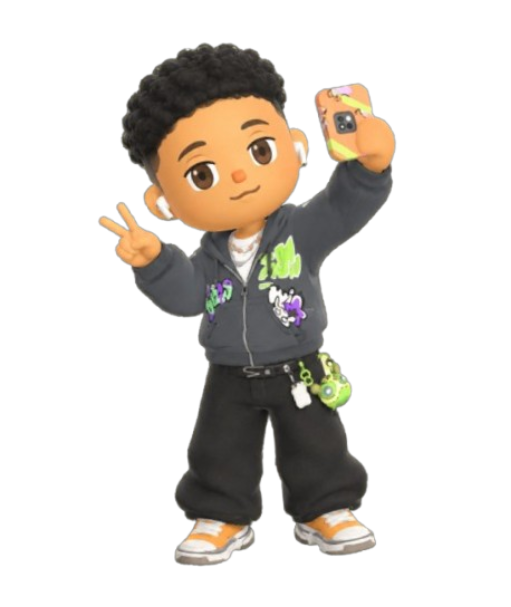
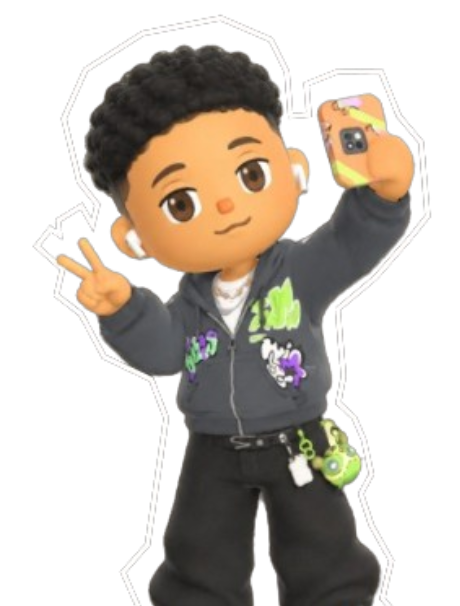
feat: adiciona gradient e position inicial nos bonecos

diff --git a/index.html b/index.html
@@ -45,12 +45,13 @@
             <div class="ps-live-region ps-sr-only" role="status" aria-live="polite"></div>
 
             <ul class="catalog-card-grid" aria-labelledby="personagens-heading-1">
-                <li><character-card name="Mari Marrão" color-from="#d6256e" color-to="#f0507c" img="assets/images/mari-marrao.png" desc="boina branca, cabelo cacheado castanho, jardineira jeans"></character-card></li>
-                <li><character-card name="Erick Santos" color-from="#1f6e8c" color-to="#2596be" desc="moletom cinza com manchas verdes, fazendo sinal de paz"></character-card></li>
-                <li><character-card name="Rahquel Emido" color-from="#a9852c" color-to="#d4b13a" desc="óculos redondos, blusa listrada, cabelo longo escuro"></character-card></li>
-                <li><character-card name="João Souza" color-from="#7a9a2e" color-to="#a3c93f" desc="moletom cinza escrito New York, cabelo cacheado"></character-card></li>
-                <li><character-card name="Vinícius Boas" color-from="#c2581c" color-to="#e8862f" desc="óculos, moletom preto, copo de café na mão"></character-card></li>
-                <li><character-card name="Isepe Nic" color-from="#5b3aa0" color-to="#7d5bc4" desc="óculos, camiseta amarela estampada, cabelo castanho"></character-card></li>
+                <li><character-card name="Mari Marrão" color-from="#DF7A96" color-to="#F6356B" img="assets/images/mari-marrao.png" desc="boina branca, cabelo cacheado castanho, jardineira jeans"></character-card></li>
+                <li><character-card name="Erick Santos" color-from="#26AACE" color-to="#287488" img="assets/images/erick-santos.png" desc="moletom cinza com manchas verdes, fazendo sinal de paz"></character-card></li>
+                <li><character-card name="Rahquel Emido" color-from="#a9852c" color-to="#d4b13a" img="assets/images/rahquel-korzh.png" desc="óculos redondos, blusa listrada, cabelo longo escuro"></character-card></li>
+                <li><character-card name="João Souza" color-from="#ADBF35" color-to="#676F2C" img="assets/images/joao-souza.png" desc="moletom cinza escrito New York, cabelo cacheado"></character-card></li>
+                <li><character-card name="Vinícius Boas" color-from="#AA4B19" color-to="#FF823F" img="assets/images/vini-vilas.png" desc="óculos, moletom preto, copo de café na mão"></character-card></li>
+                <li><character-card name="Isepe Nic" color-from="#864ECE" color-to="#4C2085" img="assets/images/isepe.png" desc="óculos, camiseta amarela estampada, cabelo castanho"></character-card></li>
+                <li><character-card name="Samuel Pimenta" color-from="#AA1919" color-to="#DC6767" img="assets/images/samuca.png" desc="óculos, camiseta amarela estampada, cabelo castanho"></character-card></li>
             </ul>
 
         </section>

diff --git a/css/pages/personagens.css b/css/pages/personagens.css
@@ -25,14 +25,13 @@
     border-radius: 999px;
 }
 
-
 /* ---------- filtros (tabs) ---------- */
 .personagens-section [role="tablist"] {
     display: flex;
     gap: 12px;
     margin-bottom: 32px;
     flex-wrap: wrap;
-}   
+}
 .personagens-section [role="tab"] {
     background: transparent;
     border: 1px solid #555;
@@ -42,13 +41,13 @@
     font-size: 0.95rem;
     cursor: pointer;
     font-family: inherit;
-}   
+}
 .personagens-section [role="tab"][aria-selected="true"] {
     background: #fff;
     color: #111;
     border-color: #fff;
     font-weight: 600;
-}   
+}
 .personagens-section [role="tab"]:focus-visible {
     outline: 3px solid #6cb6ff;
     outline-offset: 2px;
@@ -71,61 +70,10 @@
     gap: 24px;
     margin: 0;
     padding: 0;
-}   
+}
 .personagens-section .catalog-card-grid > li {
     display: contents;
-}   
+}
 .personagens-section character-card {
     display: block;
-}
-
-
-/* ---------- estilos internos do card (o componente renderiza em light DOM,
-   então estes estilos se aplicam normalmente, sem Shadow DOM) ---------- */
-.character-card {
-    border-radius: 16px;
-    padding: 16px;
-    position: relative;
-    min-height: 280px;
-    display: flex;
-    flex-direction: column;
-    justify-content: flex-end;
-}   
-.character-card .ps-card-top {
-    display: flex;
-    justify-content: space-between;
-    align-items: flex-start;
-    position: absolute;
-    top: 16px;
-    left: 16px;
-    right: 16px;
-}   
-.character-card h3 {
-    margin: 0;
-    font-size: 1.05rem;
-    color: #fff;
-    text-shadow: 0 1px 2px rgba(0, 0, 0, .4);
-}   
-.character-card .ps-fav-button {
-    background: #fff;
-    color: #111;
-    border: none;
-    border-radius: 50%;
-    width: 32px;
-    height: 32px;
-    font-size: 1.1rem;
-    cursor: pointer;
-    flex-shrink: 0;
-}   
-.character-card .ps-fav-button:focus-visible {
-    outline: 3px solid #6cb6ff;
-    outline-offset: 2px;
-}   
-.character-card img {
-    position: absolute;
-    bottom: 0;
-    right: 8px;
-    width: 70%;
-    max-height: 80%;
-    object-fit: contain;
 }

diff --git a/css/components/character-card.css b/css/components/character-card.css
@@ -1,0 +1,50 @@
+/* ---------- estilos internos do card (o componente renderiza em light DOM,
+   então estes estilos se aplicam normalmente, sem Shadow DOM) ---------- */
+.character-card {
+    border-radius: 16px;
+    padding: 16px;
+    position: relative;
+    min-height: 280px;
+    display: flex;
+    flex-direction: column;
+    justify-content: flex-end;
+    overflow: hidden;
+}
+.character-card .ps-card-top {
+    display: flex;
+    justify-content: space-between;
+    align-items: flex-start;
+    position: absolute;
+    top: 16px;
+    left: 16px;
+    right: 16px;
+}
+.character-card h3 {
+    margin: 0;
+    font-size: 1.05rem;
+    color: #fff;
+    text-shadow: 0 1px 2px rgba(0, 0, 0, .4);
+}
+.character-card .ps-fav-button {
+    background: #fff;
+    color: #111;
+    border: none;
+    border-radius: 50%;
+    width: 32px;
+    height: 32px;
+    font-size: 1.1rem;
+    cursor: pointer;
+    flex-shrink: 0;
+}
+.character-card .ps-fav-button:focus-visible {
+    outline: 3px solid #6cb6ff;
+    outline-offset: 2px;
+}
+.character-card img {
+    position: absolute;
+    bottom: -25%;
+    left: 48%;
+    transform: translateX(-48%);
+    width: 120%;
+    object-fit: contain;
+}
